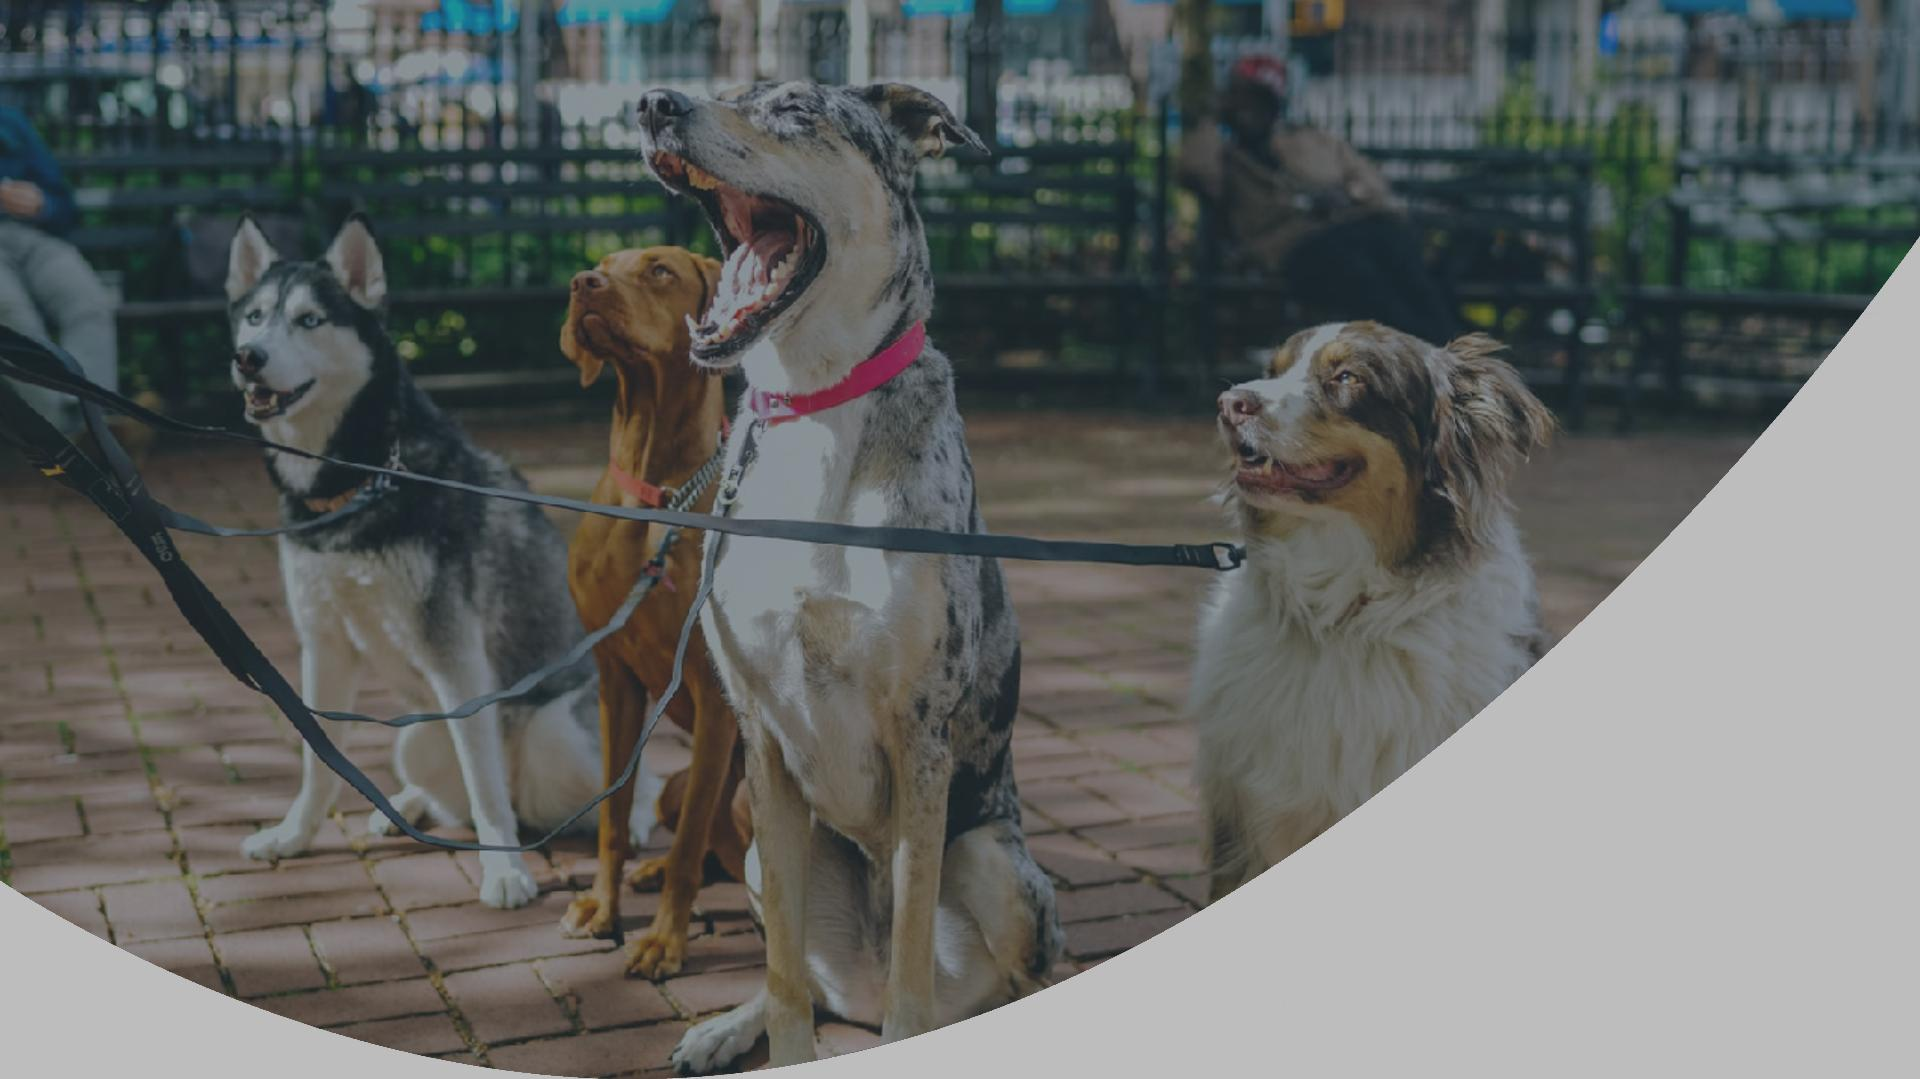
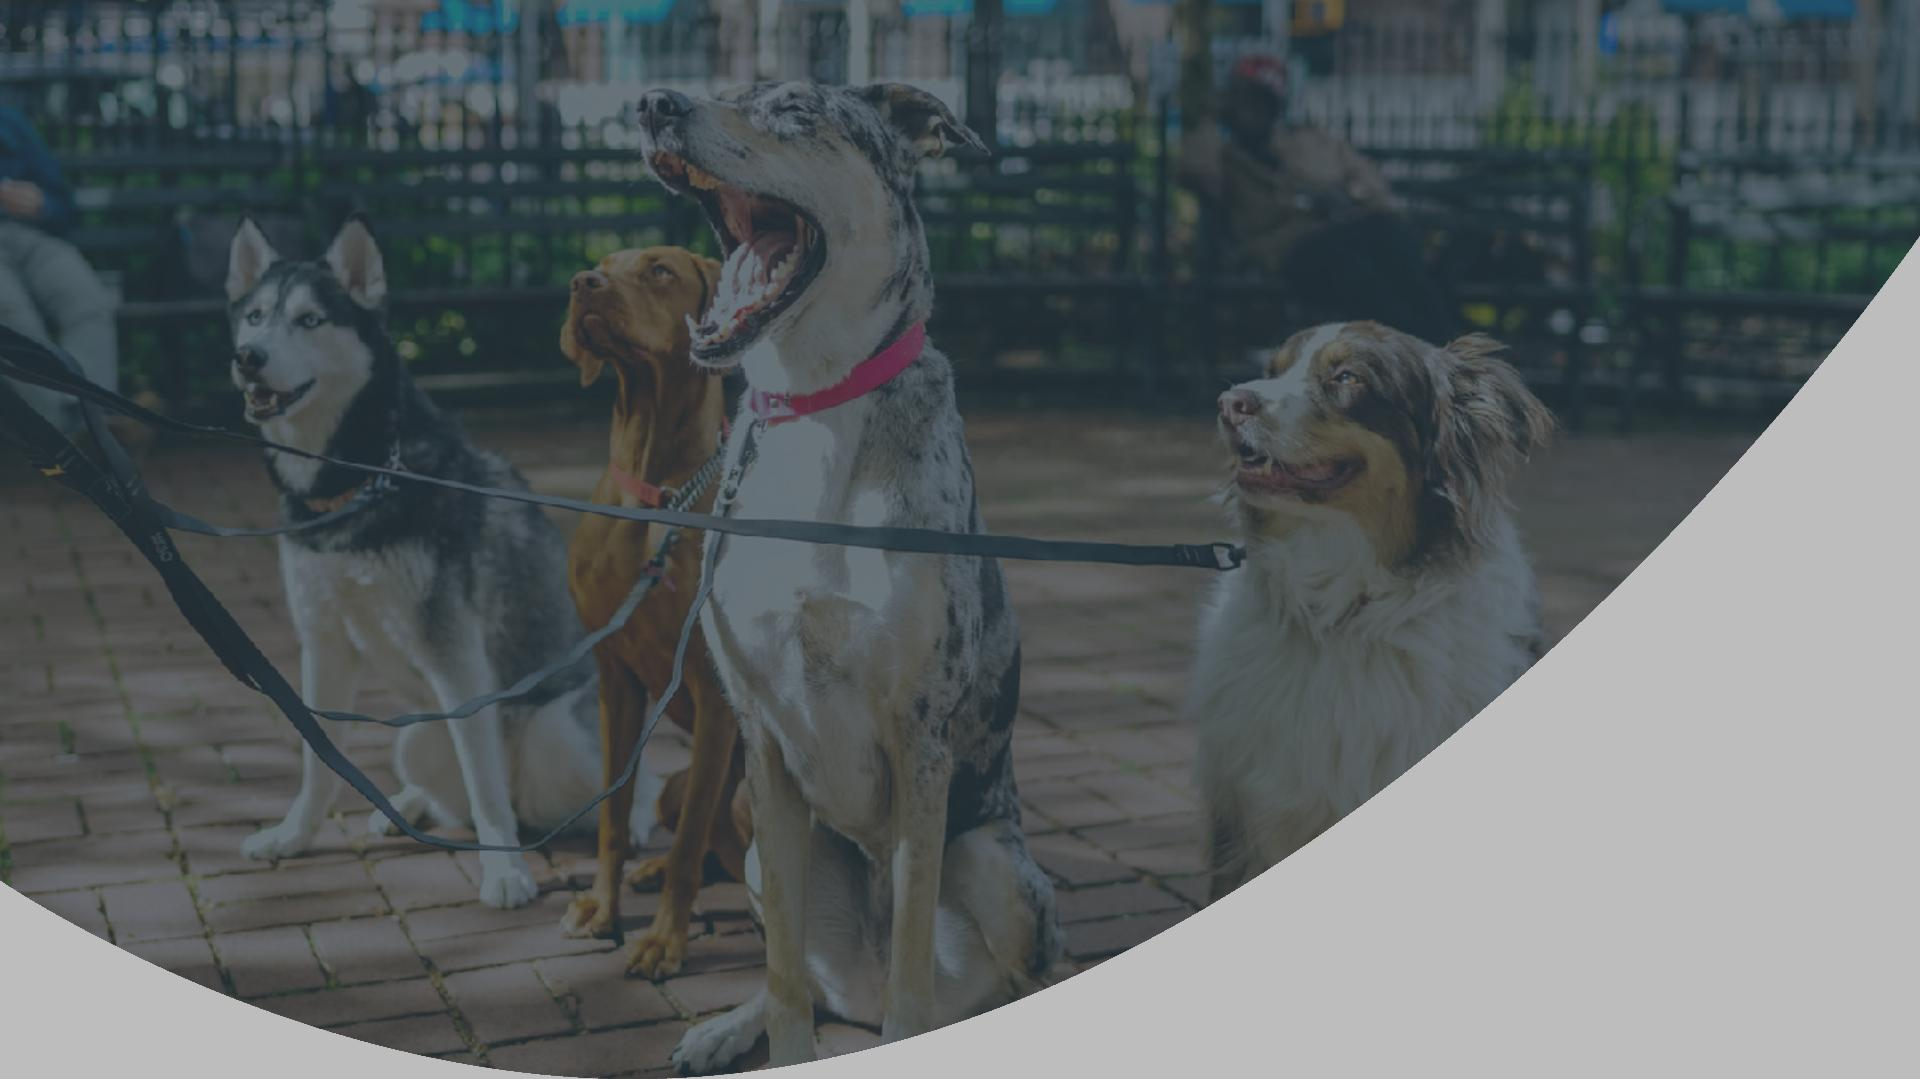
fixed color in sign-up page and link to it from index

diff --git a/index.html b/index.html
@@ -128,7 +128,7 @@ Version: 1.0.0
 						</div>
 						<!-- .cd-dropdown-wrapper -->
 					</header>
-					<div class="os_ordr_btn index_btnn">	<a href="https://us6.list-manage.com/contact-form?u=5cee3196b995994816f8c26b2&form_id=fc16381e44ab31d78db0d2271ab85cfe">Try It!</a>
+					<div class="os_ordr_btn index_btnn">	<a href="try-it.html">Try It!</a>
 					</div>
 					<nav class="hs_main_menu d-none d-sm-none d-md-none d-lg-block d-xl-block float_left">
 						<ul>

diff --git a/css/style.css b/css/style.css
@@ -2050,7 +2050,6 @@ text-transform:capitalize;
 	right:0;
 	top:0;
 	bottom:0;
-	background:rgba(5,21,36,0.6);
 }
 .os_inner_order_btn a{
 	float:right;
